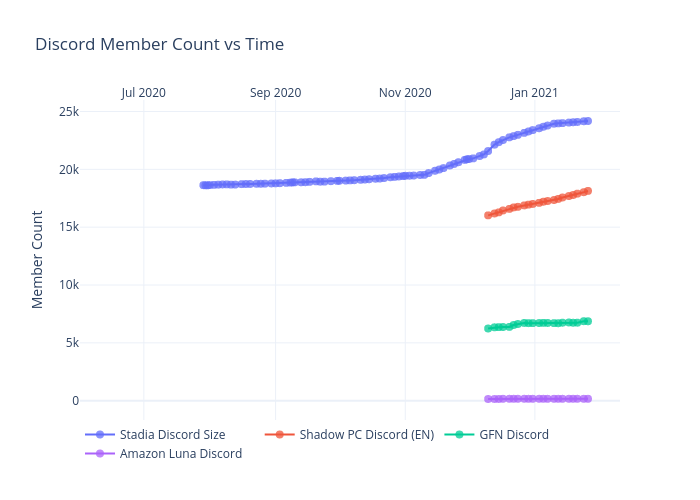
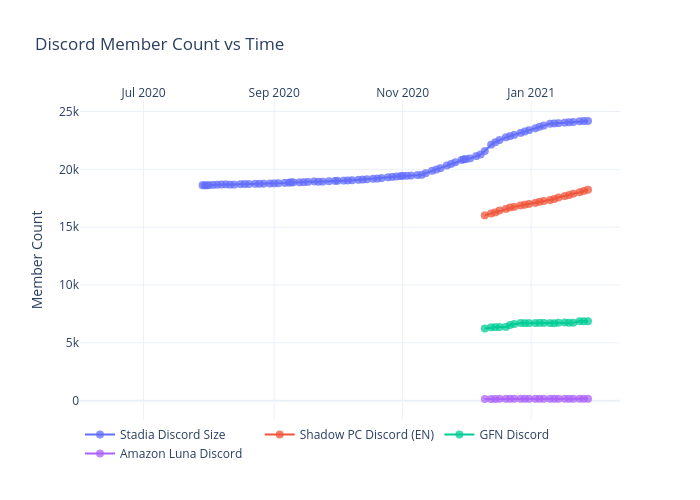
Add files via upload

diff --git a/discord/figure.js b/discord/figure.js
@@ -191,7 +191,8 @@ var figure = {
                 "24070",
                 "24095",
                 "24155",
-                "24177"
+                "24177",
+                "24180"
             ],
             "marker": {
                 "size": 8,
@@ -391,7 +392,8 @@ var figure = {
                 "17779",
                 "17897",
                 "18023",
-                "18134"
+                "18134",
+                "18238"
             ],
             "marker": {
                 "size": 8,
@@ -591,7 +593,8 @@ var figure = {
                 "6738",
                 "6743",
                 "6870",
-                "6866"
+                "6866",
+                "6870"
             ],
             "marker": {
                 "size": 8,
@@ -791,7 +794,8 @@ var figure = {
                 "163",
                 "163",
                 "163",
-                "164"
+                "164",
+                "162"
             ],
             "marker": {
                 "size": 8,
@@ -809,8 +813,8 @@ var figure = {
             "side": "top",
             "type": "date",
             "range": [
-                "2020-06-02 03:36:17.0751",
-                "2021-02-08 20:23:42.9249"
+                "2020-06-02 00:38:12.9418",
+                "2021-02-10 23:21:47.0582"
             ],
             "title": {
                 "text": ""
@@ -820,8 +824,8 @@ var figure = {
         "yaxis": {
             "type": "linear",
             "range": [
-                -1573.4654477397064,
-                25896.465447739705
+                -1573.680103656781,
+                25899.68010365678
             ],
             "title": {
                 "text": "Member Count"
